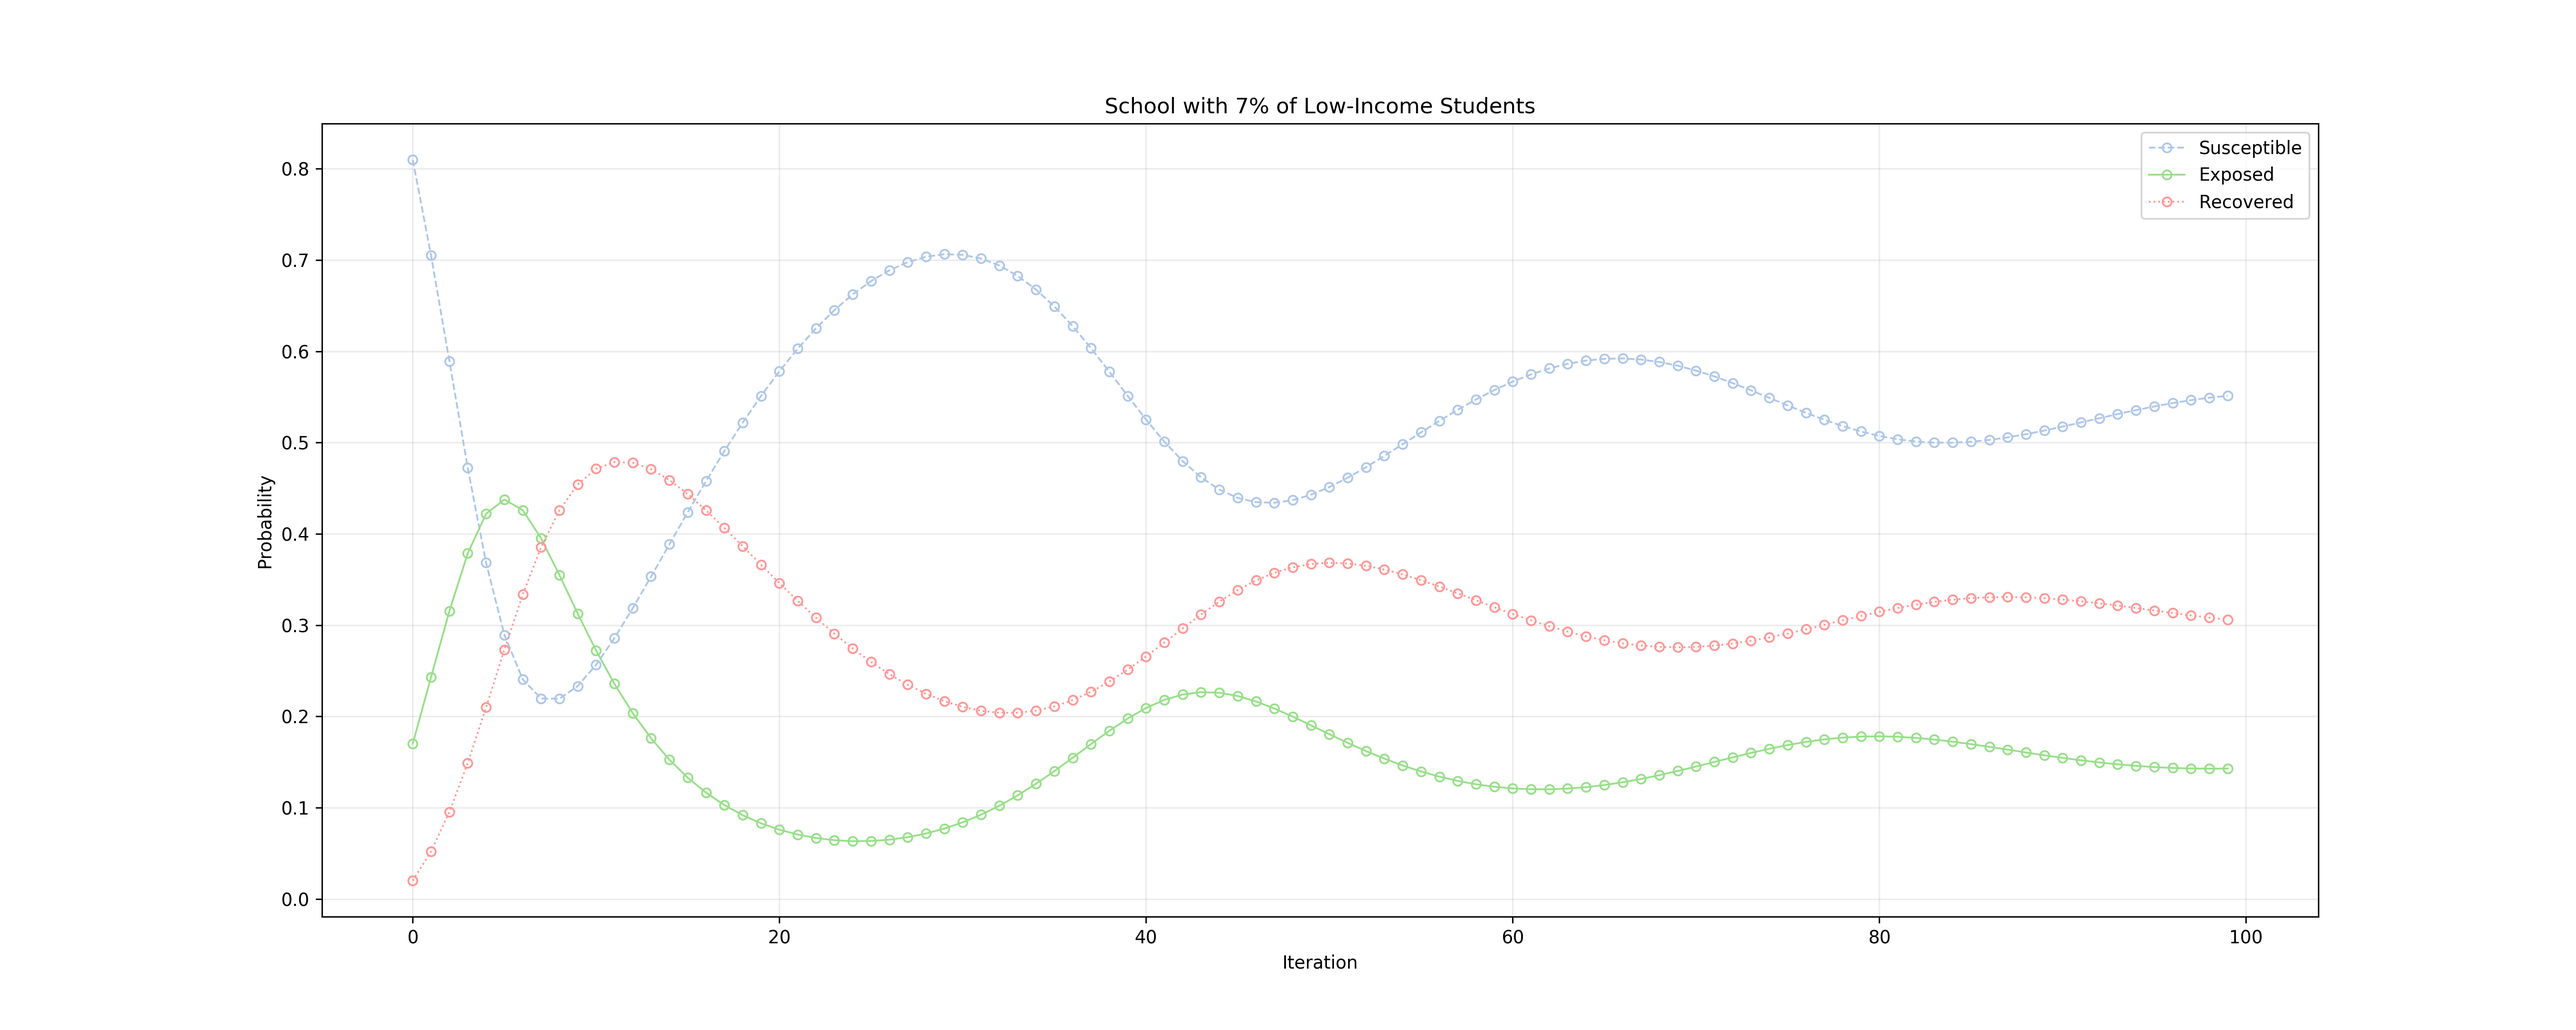
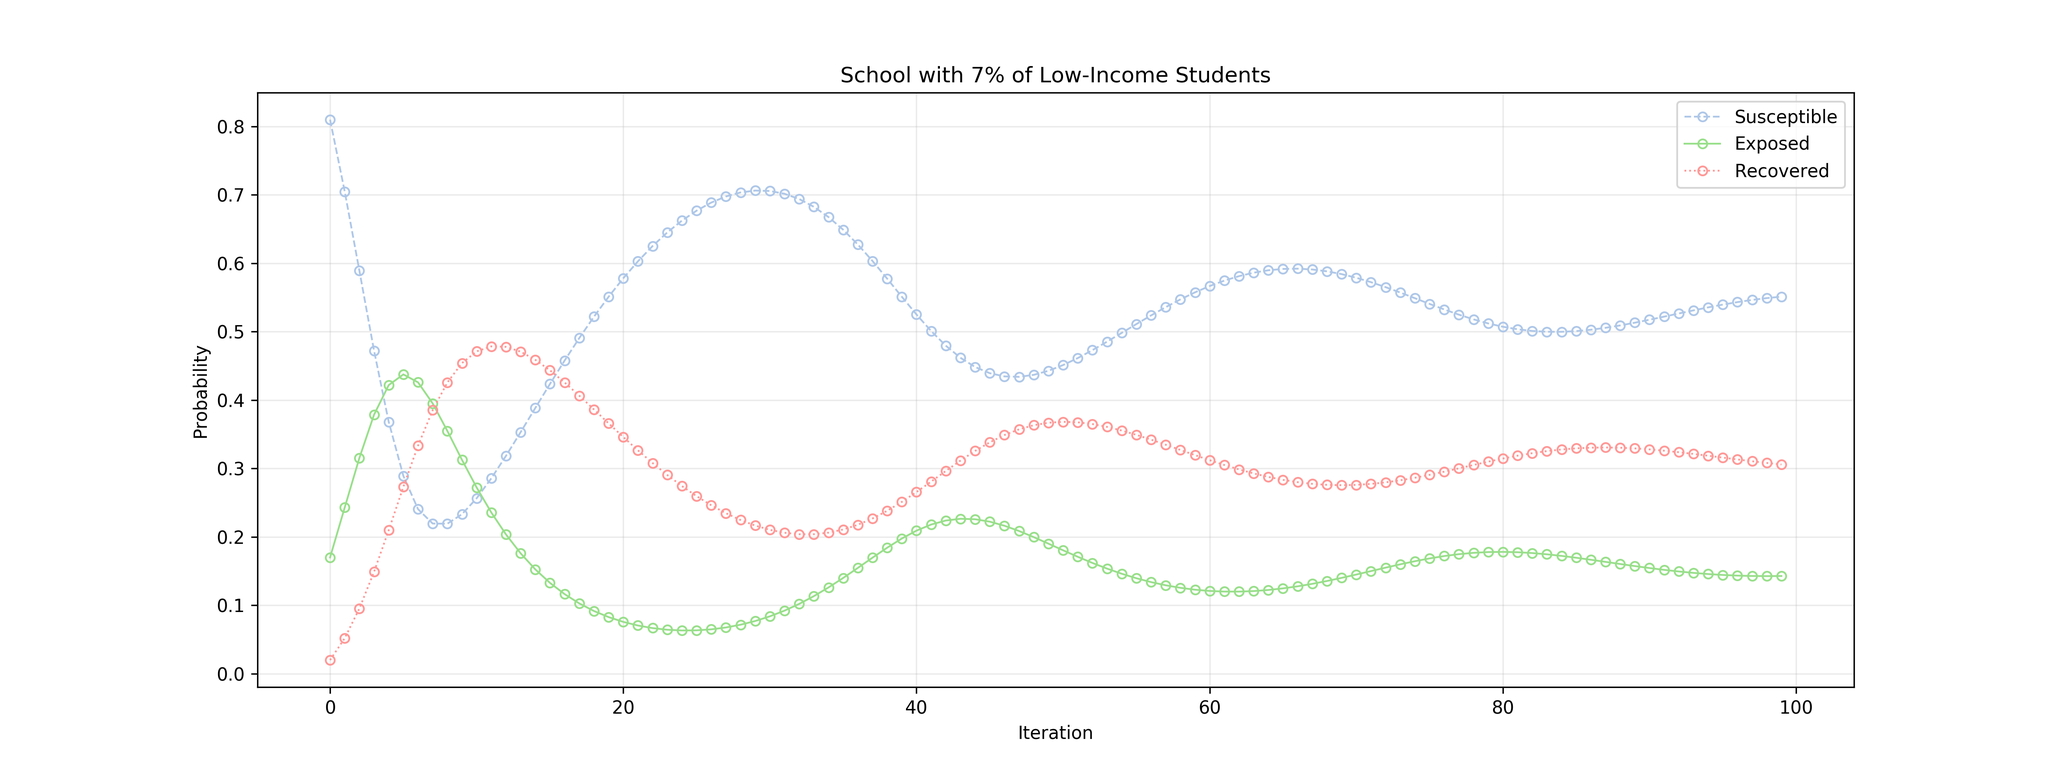
Increased the plots font size

diff --git a/src/sim/demo--2019-04-18/res.py b/src/sim/demo--2019-04-18/res.py
@@ -30,7 +30,7 @@ def plot_one_school(tbl, title, marker, fpath, cmap_ps, cmap_pe, cmap_pr):  # ta
 
     # Plot:
     cmap = plt.get_cmap('tab20')  # https://matplotlib.org/tutorials/colors/colormaps.html
-    fig = plt.figure(figsize=(20,8))
+    fig = plt.figure(figsize=(16,6))
     plt.title(title)
     plt.plot(data['i'], data['ps'], lw=1, linestyle='--', marker=marker, color=cmap(cmap_ps), markersize=5, mfc='none', antialiased=True)
     plt.plot(data['i'], data['pe'], lw=1, linestyle='-',  marker=marker, color=cmap(cmap_pe), markersize=5, mfc='none', antialiased=True)
@@ -59,7 +59,7 @@ def plot_compare_schools(col, name, fpath, cmap_low, cmap_med):  # tab10: 6,9
 
     # Plot:
     cmap = plt.get_cmap('tab20')  # https://matplotlib.org/tutorials/colors/colormaps.html
-    fig = plt.figure(figsize=(20,8))
+    fig = plt.figure(figsize=(16,6))
     plt.title(f'Probability of {name} at Low- and Medium-Income Schools')
     plt.plot(data['i'], data['p.l'], lw=1, linestyle='-', marker=MARKER_LOW, color=cmap(cmap_low), markersize=4, mfc='none', antialiased=True)
     plt.plot(data['i'], data['p.m'], lw=1, linestyle='-', marker=MARKER_MED, color=cmap(cmap_med), markersize=4, mfc='none', antialiased=True)
